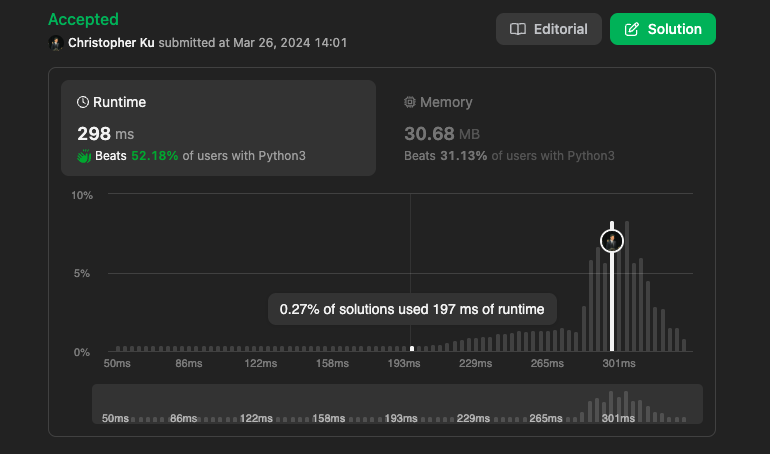
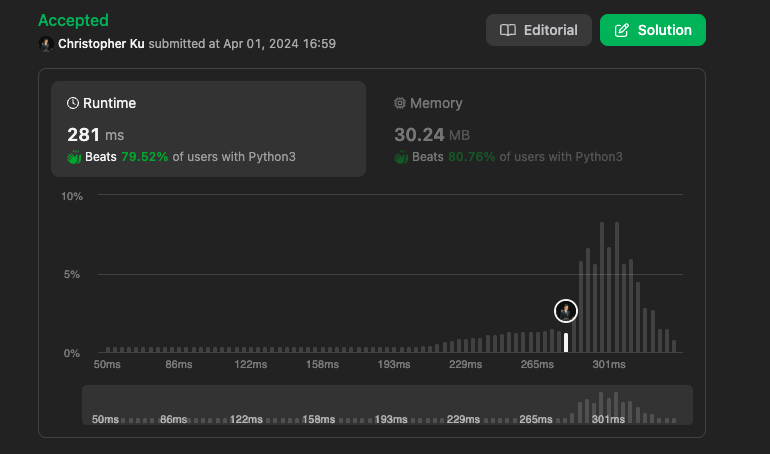
lc 442 Finished base

diff --git a/arrays-matrices/lc-442.md b/arrays-matrices/lc-442.md
@@ -1,18 +1,24 @@
 # 442. Find All Duplicates in an Array
-***Topics***: *[topics]*  
-***Difficulty***: <span style="color: #46c6c2;">[difficulty]</span>
+***Topics***: *Array, Hashmap*  
+***Difficulty***: <span style="color: #fac31d;">Medium</span>
 <!-- green: #46c6c2, yellow: #fac31d, red: #f8615c-->
 ---
-[problem statement]
+Given an integer array `nums` of length `n` where all the integers of `nums` are in the range `[1, n]` and each integer appears once or twice, return an array of all the integers that appears twice.
+
+You must write an algorithm that runs in `O(n)` time and uses only constant extra space.
 
 ---
 **Example 1:**  
+Input: `nums = [4,3,2,7,8,2,3,1]`  
+Output: `[2,3]`    
 
-![insert image here](path/to/file)
+**Example 2:**  
+Input: `[1,1,2]`  
+Output: `[1]`  
 
-Input: `[input]`  
-Output: `[output]`  
-Explanation: `[explanation]`  
+**Example 3:**  
+Input: `[1]`  
+Output: `[]`  
 
 ---
 ## Intuition
@@ -25,24 +31,31 @@ Explanation: `[explanation]`
 ---
 ## Solution
 ```python
-[python code]
+def findDuplicates(self, nums: List[int]) -> List[int]:
+    ans = []
+    for i, num in enumerate(nums):
+        if nums[abs(num) - 1] > 0:
+            nums[abs(num) - 1] *= -1
+        else:
+            ans.append(abs(num))
+    return ans
 ```
 ---
 ## Runtime & Space Complexity
-$[parameter]$ ~ being in `[parameter]`.  
+$N$ ~ being the size of input array `nums`.  
 
 Runtime Complexity:  
-$\mathcal{O}()$
+$\mathcal{O}(N)$
 
-[explanation]
+Linear time because we are iterating pass every element in `nums` at most once.
 
 Space Complexity:  
-$\mathcal{O}()$
+$\mathcal{O}(1)$
 
-[explanation]
+Constant space because no extra space is being used.
 
 ---
 ## Code Performance
-![[lc number] code performance](path/to/file)
+![442 code performance](../y_resources/code-performances/lc-442.png)
 
 ---

diff --git a/arrays-matrices/lc-41.md b/arrays-matrices/lc-41.md
@@ -1,5 +1,5 @@
 # 41. First Missing Positive
-***Topics***: *Array*  
+***Topics***: *Array, Hashmap*  
 ***Difficulty***: <span style="color: #f8615c;">Hard</span>
 <!-- green: #46c6c2, yellow: #fac31d, red: #f8615c-->
 ---
